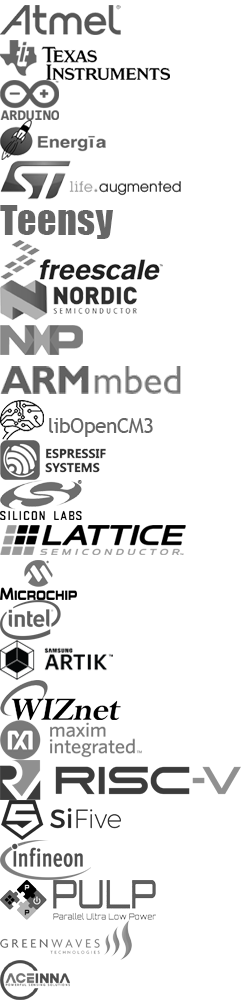
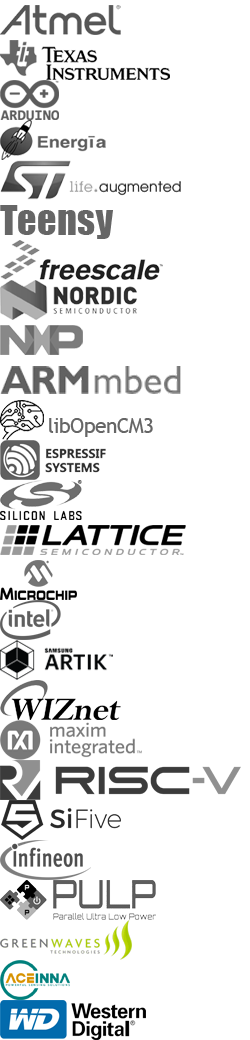
New "Trusted by Global Innovators" section

Changed region(s): [[0.0, 0.0, 0.952, 1.0]]

diff --git a/app/views/brands.html b/app/views/brands.html
@@ -1,33 +1,33 @@
 <div class="brands-contaier">
   <div class="container">
     <h2>Professional development environment for</h2>
-    <a href="/boards" class="brands">
+    <a href="/boards">
       <ul class="list-inline">
-        <li><div class="brands brand-aceinna"></div></li>
-        <li><div class="brands brand-mbed"></div></li>
-        <li><div class="brands brand-atmel"></div></li>
-        <li><div class="brands brand-espresiff"></div></li>
-        <li><div class="brands brand-freescale"></div></li>
-        <li><div class="brands brand-gwt"></div></li>
-        <li><div class="brands brand-infineon"></div></li>
-        <li><div class="brands brand-intel"></div></li>
-        <li><div class="brands brand-lattice"></div></li>
-        <li><div class="brands brand-maxim"></div></li>
-        <li><div class="brands brand-microchip"></div></li>
-        <li><div class="brands brand-nordic"></div></li>
-        <li><div class="brands brand-nxp"></div></li>
-        <li><div class="brands brand-pulp"></div></li>
-        <li><div class="brands brand-riscv"></div></li>
-        <li><div class="brands brand-sifive"></div></li>
-        <li><div class="brands brand-samsung-artik"></div></li>
-        <li><div class="brands brand-siliconlabs"></div></li>
-        <li><div class="brands brand-stm"></div></li>
-        <li><div class="brands brand-teensy"></div></li>
-        <li><div class="brands brand-ti"></div></li>
-        <li><div class="brands brand-wiznet"></div></li>
-        <li><div class="brands brand-arduino"></div></li>
-        <li><div class="brands brand-energia"></div></li>
-        <li><div class="brands brand-libopencm3"></div></li>
+        <li><div class="brands grayscale brand-aceinna"></div></li>
+        <li><div class="brands grayscale brand-mbed"></div></li>
+        <li><div class="brands grayscale brand-atmel"></div></li>
+        <li><div class="brands grayscale brand-espresiff"></div></li>
+        <li><div class="brands grayscale brand-freescale"></div></li>
+        <li><div class="brands grayscale brand-gwt"></div></li>
+        <li><div class="brands grayscale brand-infineon"></div></li>
+        <li><div class="brands grayscale brand-intel"></div></li>
+        <li><div class="brands grayscale brand-lattice"></div></li>
+        <li><div class="brands grayscale brand-maxim"></div></li>
+        <li><div class="brands grayscale brand-microchip"></div></li>
+        <li><div class="brands grayscale brand-nordic"></div></li>
+        <li><div class="brands grayscale brand-nxp"></div></li>
+        <li><div class="brands grayscale brand-pulp"></div></li>
+        <li><div class="brands grayscale brand-riscv"></div></li>
+        <li><div class="brands grayscale brand-sifive"></div></li>
+        <li><div class="brands grayscale brand-samsung-artik"></div></li>
+        <li><div class="brands grayscale brand-siliconlabs"></div></li>
+        <li><div class="brands grayscale brand-stm"></div></li>
+        <li><div class="brands grayscale brand-teensy"></div></li>
+        <li><div class="brands grayscale brand-ti"></div></li>
+        <li><div class="brands grayscale brand-wiznet"></div></li>
+        <li><div class="brands grayscale brand-arduino"></div></li>
+        <li><div class="brands grayscale brand-energia"></div></li>
+        <li><div class="brands grayscale brand-libopencm3"></div></li>
       </ul>
     </a>
   </div>

diff --git a/app/views/home.html b/app/views/home.html
@@ -87,6 +87,20 @@
         </li>
       </ul>
     </p>
+
+    <hr class="home-divider-small">
+
+    <div class="text-center">
+      <h2>Trusted by Global Innovators</h2>
+        <ul class="list-inline">
+          <li><a href="https://www.aceinna.com/" target="_blank"><div class="brands brand-aceinna"></div></a></li>
+          <li><a href="https://greenwaves-technologies.com/" target="_blank"><div class="brands brand-gwt"></div></a></li>
+          <li><a href="https://sifive.com/" target="_blank"><div class="brands brand-sifive"></div></a></li>
+          <li><a href="https://www.westerndigital.com/" target="_blank"><div class="brands brand-wd"></div></a></li>
+        </ul>
+      </a>
+    </div>
+
   </div>
 </div>
 
@@ -139,10 +153,6 @@
         </p>
       </div>
     </div>
-
-    <hr class="home-divider-small">
-
-    <div ng-include="'views/brands.html'"></div>
 
     <hr class="home-divider-small">
 

diff --git a/app/styles/main.css b/app/styles/main.css
@@ -797,6 +797,11 @@
   width: 70px;
 }
 
+.brand-wd {
+  background-position: 0 -1000px;
+  width: 146px;
+}
+
 /* Miscellaneous */
 
 .home .fa-heart {
@@ -843,6 +848,11 @@ img.img-shadow  {
 
 .glyphicon-chevron-right:before {
   content: "\f054"
+}
+
+.grayscale {
+  -webkit-filter: grayscale(100%); /* Safari 6.0 - 9.0 */
+  filter: grayscale(100%);
 }
 
 /* TOP Banner */
